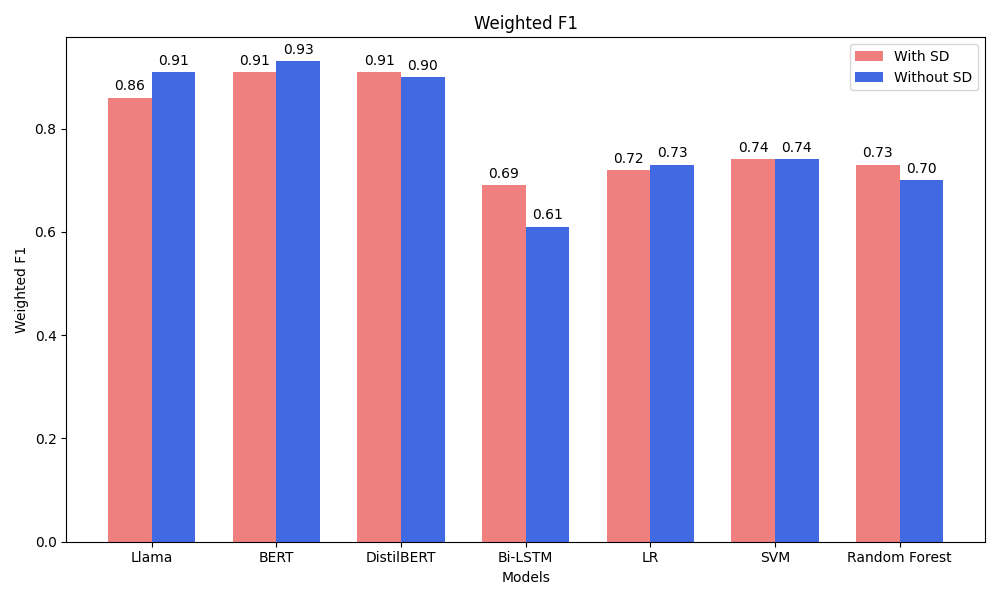
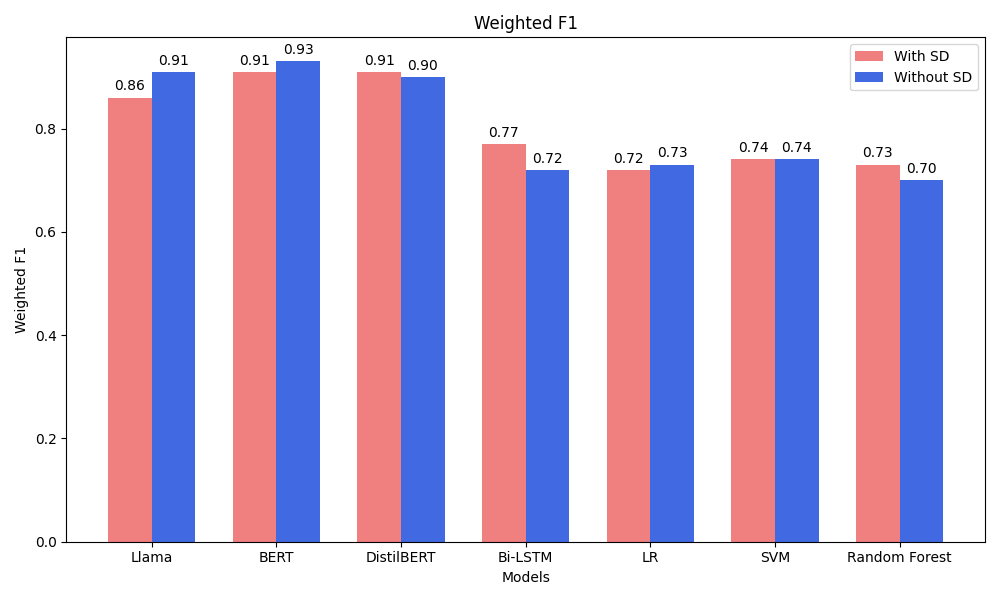
modified weighted_f1_sd_chart.png

Changed region(s): [[0.465, 0.21, 0.589, 0.39]]

diff --git a/code/plot_sd.py b/code/plot_sd.py
@@ -6,8 +6,8 @@ import numpy as np
 data = {
     'Weighted F1': {
     'title': 'Weighted F1',
-    'with_sd': [0.86, 0.91, 0.91, 0.69, 0.72, 0.74, 0.73],
-    'without_sd': [0.91, 0.93, 0.90, 0.61, 0.73, 0.74, 0.70],
+    'with_sd': [0.86, 0.91, 0.91, 0.77, 0.72, 0.74, 0.73],
+    'without_sd': [0.91, 0.93, 0.90, 0.72, 0.73, 0.74, 0.70],
 }
 
     # 'Accuracy': {
